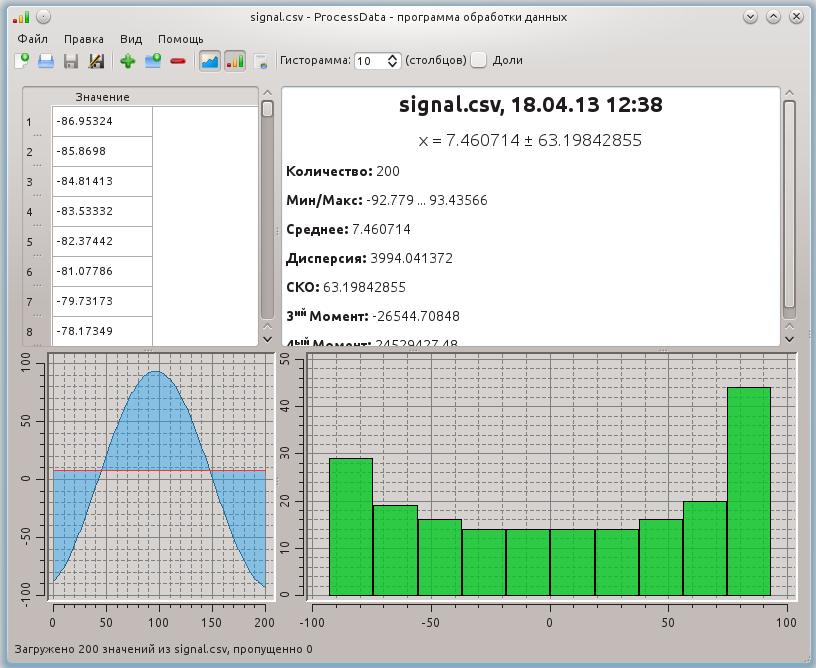
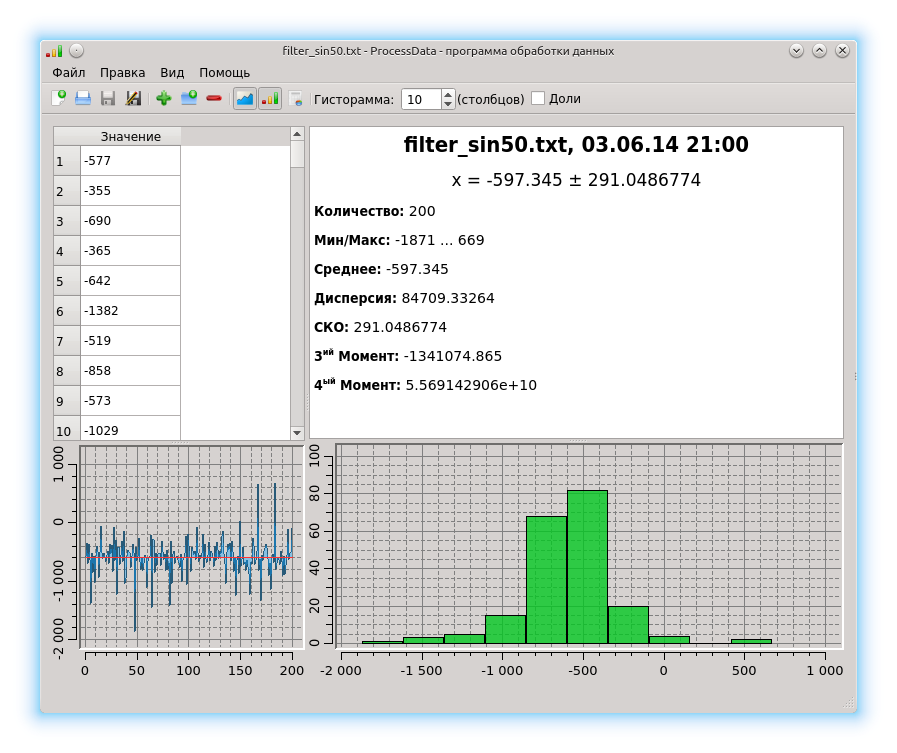
Описал профилирование и измерение производительности
Обновил скриншот программы StatistiQ

diff --git a/text/src/base.tex b/text/src/base.tex
@@ -2548,13 +2548,15 @@
   \inlinecode{QTextStream} для сохранения в файл, классы \inlinecode{QPrinter} и
   \inlinecode{QPrintDialog} для печати отчёта.
 
-  \subsection{Профилирование и оптимизация}
-
-  \todo{написать раздел}
-
-  \includefigure[width=0.85\linewidth]{Профилирование программы с помощью Valgrind в Qt Creator}{valgrind}
-
   \subsection{Тестирование и испытание системы}\label{ssec:testing}
+
+  Разработанная программная система была протестирована и испытана. Производилось тестирование и
+  отладка во время разработки, профилирование и оптимизация, а также испытания в лабораторных и
+  полевых условиях. Тестирование проводилось на трёх типах сигналов: белый шум, синусоидальный
+  сигнал, реальный сейсмосигнал с трёхкоординатного датчика. Различные этапы тестирования и
+  испытаний описаны ниже.
+
+  \subsubsection{Тестирование при разработке}
 
   Для тестирования системы была разработана вспомогательная тестовая программа~--- генератор данных,
   во время тестирования заменяющий собой реальный измерительный прибор. В эту программу загружаются данные из
@@ -2569,7 +2571,7 @@
   \includefigure[width=0.4\textwidth]{Тестовая программа~--- генератор данных}{conserial}
 
   Процесс отладки во время разработки происходит следующим образом. На персональный компьютер,
-  используемом при разработке, устанавливается эмулятор COM-порта, создающий два виртуальных порта
+  используемом при разработке, устанавливается эмулятор COM-порта, создающий два виртуальных порта,
   ведущих себя так, как если бы они были соединены друг с другом кабелем. При помощи генератора
   данных данные передаются основной программе через этот виртуальный порт. Тем самым проверяется
   корректность реализации протокола взаимодействия через последовательный порт и логики приложения, хотя и
@@ -2584,7 +2586,147 @@
   загружаются данные из файла, и он отправляет их через это соединение на другой компьютер, где их
   получает и отображает основная программа.
 
-  Наконец, для окончательного испытания программа загружается в реальный прибор РСС-01, в составе
+  Оба способа тестирования производились в процессе разработки и показали корректность реализации
+  процесса получения данных.
+
+  \subsubsection{Профилирование и оптимизация}
+
+  Для приложений, выполняющих обработку данных в реальном времени, требуется не только корректное
+  выполнение своих функций, но и достаточную производительность, чтобы задержки не приводили к
+  потерям данных. Поэтому помимо тестирования на корректность работы необходима также проверка их
+  производительности и, при необходимости, \term{оптимизация}, то есть модификация программного кода
+  с целью повышения производительности. При этом в зависимости от условий выполнения программы может
+  требоваться оптимизация по разным параметрам: уменьшение времени выполнения, объёма используемой
+  памяти или размера исполняемого кода. Для данной системы наиболее критичным является обеспечение
+  достаточного быстродействия, поэтому в данной работе рассматривается только оптимизация по времени
+  выполнения.
+
+  Важная особенность, которую нужно учитывать при оптимизации программ, заключается в том, что
+  разные участки кода вносят разный вклад в общее время выполнения, поэтому требует особого внимания
+  выбор фрагментов кода для оптимизации. Даже значительные усилия по оптимизации кода, который
+  исполняется редко, не приведут к ощутимому ускорению всей программы, поскольку их вклад в общее
+  время исполнения невелик. Поэтому необходимо найти среди всего кода системы те \term{узкие места}
+  (англ. \eng{bottleneck}), которые составляют наибольшую часть времени выполнения, и затем
+  оптимизировать именно их \cite{wadleigh-optimization}.
+
+  Один из способов поиска таких мест заключается в расстановке в коде программы таймеров, то есть
+  инструкций, подсчитывающих время выполнения различных фрагментов кода. Для измерения точного
+  времени можно использовать специальные функции, предоставляемые операционной системой, например
+  \inlinecode{QueryPerformanceCounter} в Windows \cite{queryperformancecounter} или
+  \inlinecode{clock\_gettime} в Linux \cite{clockgettime}. Однако такой поиск быстро приведёт к
+  результатам, только если изначально есть предположения о том, какие части кода выполняются дольше
+  других, и их нужно проверить.
+
+  Для получения наиболее полной картины необходимо производить \term{профилирование} (англ.
+  \eng{profiling})~--- автоматический сбор характеристик производительности с использованием
+  специального инструмента, \term{профилировщика} (англ. \eng{profiler}). С помощью некоторой
+  модификации кода исследуемой программы при её запуске для профилирования профилировщик получает
+  для каждой функции статистику по частоте её исполнения. Затем, как правило, полученные результаты
+  предоставляются разработчику в табличном и графическом виде. Пример работы с профилировщиком
+  Valgrind \cite{valgrind} в среде Qt Creator показан на рис.~\ref{fig:valgrind}.
+
+  \includefigure[width=0.85\linewidth]{Профилирование программы с помощью Valgrind в Qt Creator}{valgrind}
+
+  В данной работе были применены оба подхода. Для предварительной оценки времени вычислений в
+  различных модулях программы использовались таймеры, затем для точной локализации узких мест
+  использовался вышеупомянутый профилировщик Valgrind. Для удобства использования в различных местах
+  программы, а также для реализации вычисления минимального, среднего и максимального времени при
+  повторных измерениях таймер был реализован в виде класса \inlinecode{PerformanceReporter},
+  объявление которого представлено на рис.~\ref{fig:src-performance-reporter}.
+
+  \begin{myfigure}{Реализация таймера для измерения времени выполнения}{fig:src-performance-reporter}
+    \begin{lstlisting}
+      class PerformanceReporter : public QObject
+      {
+          Q_OBJECT
+      public:
+          void addMeasurement(double time);
+          void reportResults();
+
+          void start() {
+              beforePause = 0;
+              timer.start();
+          }
+          void pause() {
+              beforePause += timerElapsed();
+              paused = true;
+          }
+          void unpause() {
+              paused = false;
+              timer.start();
+          }
+          void stop() {
+              if (paused) {
+                  addMeasurement(beforePause);
+              } else {
+                  addMeasurement(timerElapsed() + beforePause);
+              }
+          }
+      private:
+          double timerElapsed() {
+              return timer.nsecsElapsed() / 1000000.0;
+          }
+          QElapsedTimer timer;
+          bool paused;
+          double beforePause;
+      };
+    \end{lstlisting}
+  \end{myfigure}
+
+  Этот класс предоставляет два основных метода: \inlinecode{addMeasurement} добавляет очередное
+  измерение, обновляя минимальное, максимальное и среднее значения, а \inlinecode{reportResults}
+  выводит эти значения на экран. Для измерения времени используется класс \inlinecode{QElapsedTimer},
+  входящий в состав Qt, который автоматически в разных операционных системах использует доступные
+  средства точного измерения времени. Работа с этим классом также инкапсулирована в состав класса
+  \inlinecode{PerformanceReporter}, так что можно использовать методы \inlinecode{start} и
+  \inlinecode{stop} для добавления измерения, причём добавлена возможность выполнения измерений для
+  процессов, выполняющихся по частям (например, получение данных, разбитых на несколько пакетов), за
+  счёт методов \inlinecode{pause} и \inlinecode{unpause}.
+
+  В процессе профилирования были выявлены и исправлены следующие проблемы.
+  \begin{enumerate}
+    \item При большом числе отсчётов значительную часть времени вычислений составляло построение
+      графика. Была применена следующая оптимизация: поскольку не имеет смысла строить график, у которого расстояние между соседними
+      точками будет меньше пикселя, то при превышении числом отсчётов заданного значения
+      б\'{о}льшая часть точек при построении графика пропускается.
+    \item Отображение всех полученных данных в виде списка в графическом интерфейсе приводило к
+      замедлению его обновления после долгой работы программы (при накоплении большого числа
+      значений). Чтобы исключить снижение быстродействия со временем, было принято решение
+      отображать в графическом интерфейсе фиксированное количество последних полученных данных. При
+      этом данные в полном объёме по-прежнему доступны в файле, который записывает программа.
+    \item Было обнаружено низкое быстродействие некоторых стандартных классов Qt. А именно, при
+      большом количестве обрабатываемых отсчётов существенную часть времени вычислений занимала
+      модификации объектов класса \inlinecode{QDateTime}, представляющего момент времени, а также
+      конвертация число в строку с помощью метода \inlinecode{QString::number}. Для решения этих
+      проблем вместо объектов \inlinecode{QDateTime} для представления моментов времени были
+      использованы простые числа с плавающей точкой (\inlinecode{double}), а для конвертации чисел в
+      строку был использован метод \inlinecode{QByteArray::setNum}, который не производит выделения
+      динамической памяти.
+  \end{enumerate}
+
+  По завершении оптимизации класс \inlinecode{PerformanceReporter} использовался также для измерения
+  производительности, результаты которого приведены на рис.~\ref{fig:performance}. Отдельно
+  измерялось время, которое требовалось на получение порции данных определённого размера по
+  COM-порту, на их обработку и запись, а также на отображение в виде графика. Измерения
+  производились на компьютере со следующими характеристиками: процессор \eng{Intel Core i5-2500K} с
+  тактовой частотой \numprint{3.3} ГГц, 8 Гб оперативной памяти. В процессе измерения использовался
+  описанный выше способ тестирования с помощью генератора данных и виртуального COM-порта.
+  Измерения для каждого значения числа отсчётов в секунду производились в течение минуты, и
+  полученные 60 значений усреднялись.
+
+  \includefigure[width=0.85\textwidth]{Зависимость времени вычислений от числа обрабатываемых отсчётов данных}{performance}
+
+  Из графика видно, что зависимость времени вычисления от числа отсчётов для всех трёх операций
+  близка к линейной, что соответствует ожидаемой зависимости. При этом перегиб линии,
+  соответствующей времени отображения, отвечает началу применения оптимизации графика,
+  упомянутой выше. При количестве отсчётов больше \numprint{100000} общее время практически
+  полностью определяется временем обработки и записи, которое приближается к секунде при количестве
+  отсчётов, равном \numprint{3000000}. Таким образом, предельная пропускная способность, которую
+  может обеспечить данная программа на данном компьютере~--- \numprint{3000000} отсчётов в секунду.
+
+  \subsubsection{Испытания с реальным прибором}
+
+  Для окончательного испытания программа загружается в реальный прибор РСС-01, в составе
   которого находится микроконтроллер Atmega640, оцифровывающий сигнал с датчиков и передающий его
   через COM-порт, GPS-приёмник Trimble Lassen LP, использующийся для синхронизации, а также
   одноплатный компьютер (микроЭВМ) PCM-3353 форм-фактора PC/104+ под управлением операционной системы
@@ -2602,10 +2744,6 @@
     \item Точность синхронизации от GPS-приёмника: 10 мкс.
     \item Тактовая частота процессора микроЭВМ: 500 МГц.
   \end{enumerate}
-
-  Испытания программы проводились в лабораторных и полевых условиях. Тестирование проводилось на
-  трёх типах сигналов: белый шум, синусоидальный сигнал, реальный сейсмосигнал с трёхкоординатного
-  датчика.
 
   Схема подключения для лабораторных испытаний показана на рис.~\ref{fig:lab-overview}.
 
@@ -2625,10 +2763,12 @@
   программа. Испытание на реальных сейсмических сигналах показало пригодность данной программы для
   применения в реальной измерительной системе.
 
-  \subsection{Результаты}
+  \subsection{Результаты}\label{ssec:results}
 
   Основная программа разработана и протестирована на реальных сигналах. Внешний вид программы
-  представлен на рис.~\ref{fig:main}.
+  представлен на рис.~\ref{fig:main}. Описанные выше измерения производительности показали, что
+  программа способна обработать в секунду вплоть до миллиона значений по каждому из трёх каналов
+  измерения.
   \includefigure[width=0.85\textwidth]{Основная программа}{main}
   % TODO ещё скриншот в Windows?
 
@@ -2644,18 +2784,21 @@
   отображается время начала приёма, прошедшее время и количество полученных данных. Приём данных
   прекращается кнопкой <<Стоп>>, также имеется возможность закрыть соединение с микроконтроллером
   нажатием кнопки <<Отключить>>, после чего программа переходит в изначальное состояние и работу с
-  ней можно начинать с начала.
+  ней можно начинать с начала. В процессе работы автоматически происходит сохранение полученных
+  данных в файл, имя и расположение которого можно изменять с помощью панели настроек.
 
-  \todo{измерение быстродействия}
+  Программа была испытана в составе прибора для регистрации сейсмических колебаний, как
+  описано выше в подразделе~\ref{ssec:testing}. Испытание показало корректность их работы и
+  пригодность для применения в реальной измерительной системе.
+  \todo{документ о внедрении?}
 
   Программа обработки накопленных данных разработана, также протестирована на данных реального
   % TODO сказать, что можно и больше, только придётся подождать
   сигнала. Было выяснено, что программа может открывать файлы объёмом вплоть до \num{100000} записей
   и рассчитывать для них статистику без серьёзного замедления в работе. Внешний вид программы
   показан на рис.~\ref{fig:stat}.
-  \includefigure[width=0.6\textwidth]{Программа обработки накопленных данных}{stat}
+  \includefigure[width=0.7\textwidth]{Программа обработки накопленных данных}{stat}
   % FIXME можно более подробно
-  % TODO более свежий скриншот? Дата файла выдаёт то, что он годовалой давности :)
 
   Помимо использования вместе с основной программой, данная программа может найти применение при
   исследовании физических процессов, связанных с измерением физических параметров и эффективно
@@ -2671,15 +2814,10 @@
   изменение статистических значений, а по завершении ввода получить готовый ответ о среднем значении
   и его точности в виде $x \pm \Delta x$.
 
-  Обе программы были протестированы на реальных сейсмических сигналах, как описано выше в
-  подразделе~\ref{ssec:testing}. Испытание показало корректность их работы и пригодность для
-  применения в реальной измерительной системе.
-  \todo{документ о внедрении?}
-
   По итогам данной работы было опубликовано 5 работ: 1 статья \cite{nia-bogatov-13}, 2 тезиса
   докладов на конференции \cite{nia-sno-13, nia-tumaev-13} и 2 свидетельства о регистрации программы
   для ЭВМ~--- на основную программу \cite{nia-seismoreg} и на программу обработки накопленных
-  данных \cite{nia-processdata}. Полученные наработки также применены в разработки других программ,
+  данных \cite{nia-processdata}. Полученные наработки также применены при разработке других программ,
   на которые также получены свидетельства о регистрации \cite{nia-semiconductor,
   nia-med-measurements}.
 
@@ -2716,6 +2854,7 @@
 
   \lastPageHere
 
+  % TODO обновить \checkdate во всех интернет-источниках!
   \begin{flushleft}
     \bibliographystyle{../../biblio/ugost2003} % Или использовать ugost2008 для нового ГОСТа
     \bibliography{../../biblio/my,../../biblio/own}
